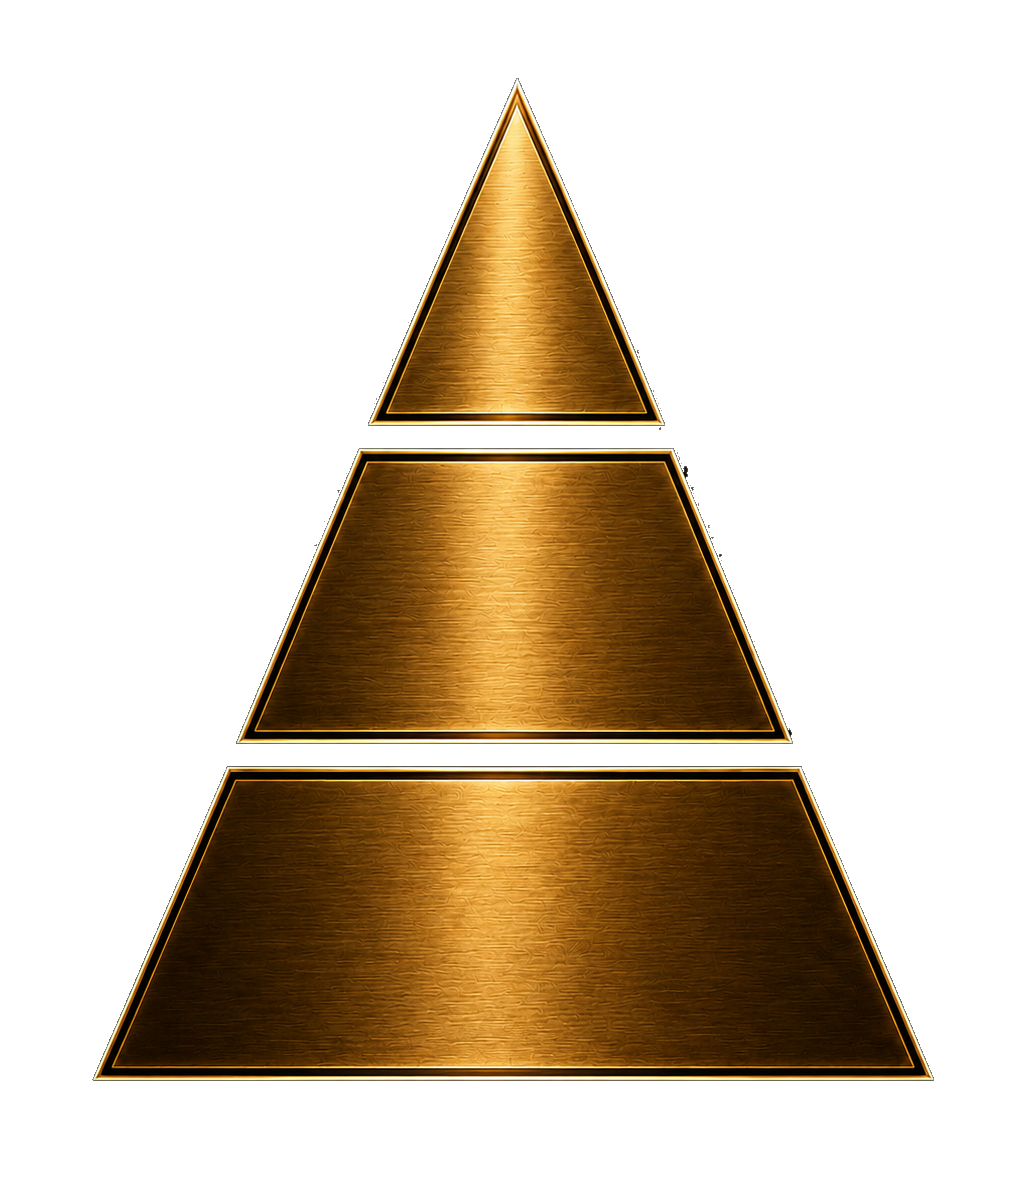
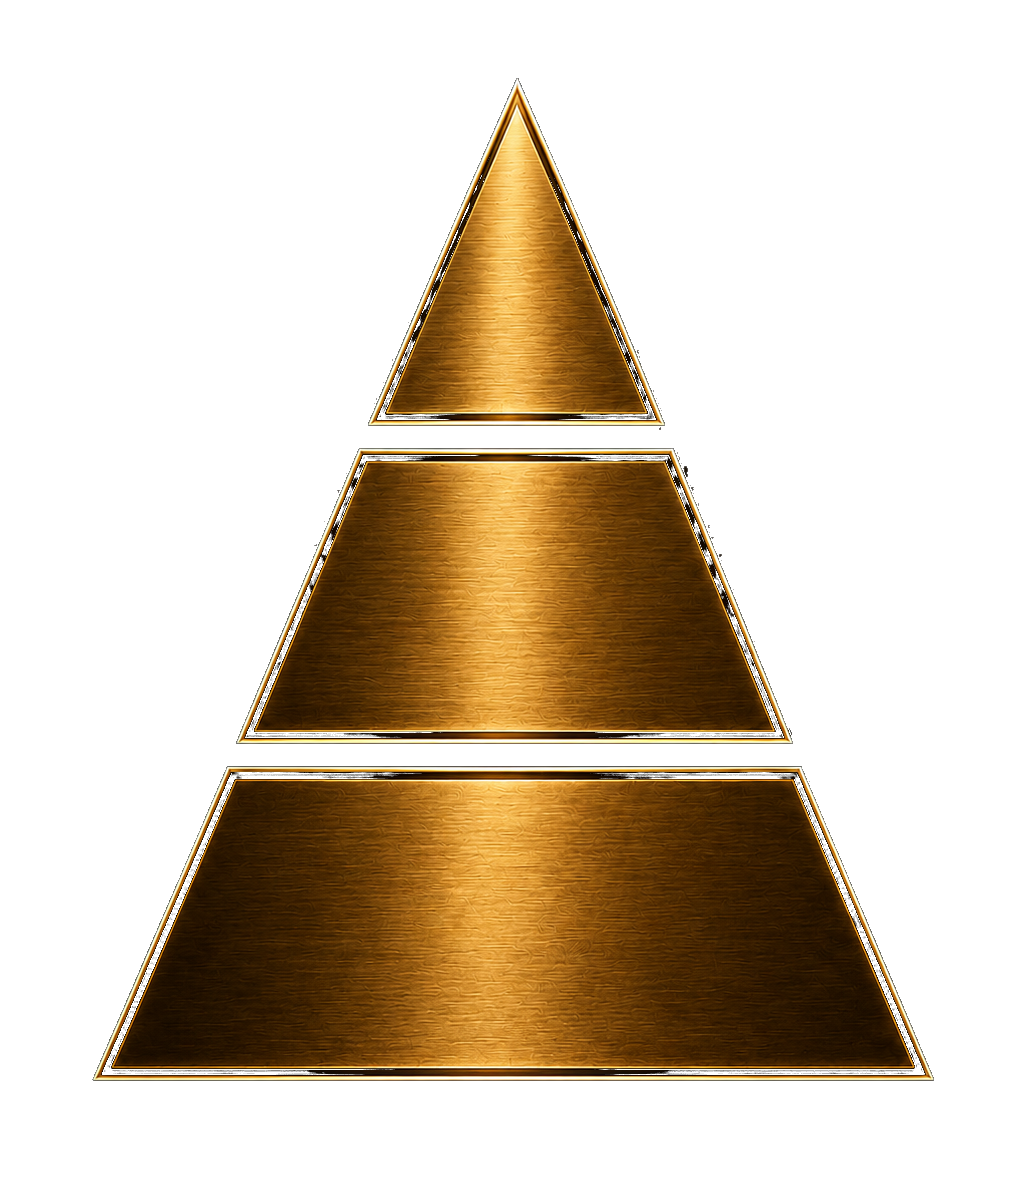
polish note pyramid artwork slicing
Carve the residual enclosed black "moat" out of the note-pyramid artwork
alpha. 6e1993b rebuilt the alpha from the clean source by flood-filling the
*connected* near-black backdrop, but that could not reach the band of pure
background-black enclosed between each tier's bright gold rim and its inner
gold face (~16k opaque black px). It read as a thin dark frame on the dark
UI but is genuine baked background that surfaces on lighter surfaces / the
card drop-shadow / hover.

clean-note-pyramid-alpha.py removes only the very-dark + near-neutral pixels
with a soft anti-aliased ramp; RGB is left byte-for-byte identical so the
gold texture is preserved exactly, and alpha is only ever reduced inside the
dark+neutral zone. Dark-gold chroma (>=18) and the black moat chroma (<=11)
do not overlap, so no gold pixel is touched (gold px count unchanged
381,798 -> 381,798). The tier-slice/open-up geometry is unchanged: cuts still
fall in fully-transparent gaps, dimensions stay 1026x1197.

diff --git a/artifacts/scent-cast/scripts/clean-note-pyramid-alpha.py b/artifacts/scent-cast/scripts/clean-note-pyramid-alpha.py
@@ -1,0 +1,84 @@
+#!/usr/bin/env python3
+"""Carve the residual enclosed black "moat" out of the note-pyramid artwork alpha.
+
+Background
+----------
+The brushed-gold pyramid art (`public/note-pyramid-gold.png`, 1026x1197) was baked
+on a solid black backdrop. Commit 73c592e keyed the backdrop with a tool that left
+white edge halos and smeared the gold texture. Commit 6e1993b rebuilt the alpha from
+the clean pre-removal source by flood-filling only the *connected* near-black
+background, leaving RGB byte-for-byte identical to the good source.
+
+That connected flood-fill cannot reach the thin band of pure background-black that is
+*enclosed* between each tier's bright gold rim outline and its inner gold face (a
+"moat"). ~16k pixels of baked black therefore remained fully opaque. They read as a
+thin dark frame on the dark UI, but they are genuine baked background and surface as
+black fragments on any lighter surface / drop-shadow / hover.
+
+What this step does
+-------------------
+Removes ONLY the enclosed near-black + near-neutral pixels, with a soft ramp for
+anti-aliasing. RGB is left untouched, so the gold texture is preserved exactly, and
+alpha is only ever *reduced* and only inside the dark+neutral zone, so no gold pixel
+can be damaged: measured dark-gold chroma is >=18 (5th pct) while the black moat
+chroma is <=11 (mean 4.2) -- a clean, non-overlapping gap.
+
+Deterministic: same input -> same output. Idempotent: re-running on a cleaned asset
+is a no-op (the moat is already gone).
+
+Usage:  python clean-note-pyramid-alpha.py [input.png] [output.png]
+Default in/out is ../public/note-pyramid-gold.png (in place).
+"""
+from __future__ import annotations
+
+import sys
+from pathlib import Path
+
+import numpy as np
+from PIL import Image
+
+# Keying thresholds (see module docstring for the measured separation).
+MX_BLACK = 8.0      # max-channel at/below which a low-chroma pixel is fully background
+MX_KEEP = 20.0      # max-channel at/above which a pixel is kept regardless of chroma
+CHROMA_BLACK = 4.0  # chroma at/below which a dark pixel is fully background
+CHROMA_KEEP = 14.0  # chroma at/above which a pixel is kept (gold floor is ~18)
+
+
+def clean(in_path: Path, out_path: Path) -> None:
+    im = Image.open(in_path).convert("RGBA")
+    a = np.array(im)
+    rgb = a[:, :, :3].astype(np.float32)
+    alpha = a[:, :, 3].astype(np.float32)
+
+    mx = rgb.max(axis=2)
+    mn = rgb.min(axis=2)
+    chroma = mx - mn
+
+    # keep_factor in [0,1]: 0 = pure background black, 1 = gold/structure to preserve.
+    # A pixel is kept if it is bright enough OR chromatic enough; the max() of the two
+    # normalized ramps gives a soft anti-aliased transition from black -> gold.
+    bright_ramp = (mx - MX_BLACK) / (MX_KEEP - MX_BLACK)
+    chroma_ramp = (chroma - CHROMA_BLACK) / (CHROMA_KEEP - CHROMA_BLACK)
+    keep = np.clip(np.maximum(bright_ramp, chroma_ramp), 0.0, 1.0)
+
+    # Only ever reduce alpha (never re-add), so prior feathering stays intact.
+    new_alpha = np.minimum(alpha, keep * 255.0)
+
+    out = a.copy()
+    out[:, :, 3] = np.rint(new_alpha).astype(np.uint8)
+    # RGB untouched -> texture preserved byte-for-byte.
+    assert np.array_equal(out[:, :, :3], a[:, :, :3])
+    Image.fromarray(out, "RGBA").save(out_path)
+
+
+def main() -> None:
+    here = Path(__file__).resolve().parent
+    default = here.parent / "public" / "note-pyramid-gold.png"
+    in_path = Path(sys.argv[1]) if len(sys.argv) > 1 else default
+    out_path = Path(sys.argv[2]) if len(sys.argv) > 2 else in_path
+    clean(in_path, out_path)
+    print(f"cleaned {in_path} -> {out_path}")
+
+
+if __name__ == "__main__":
+    main()
